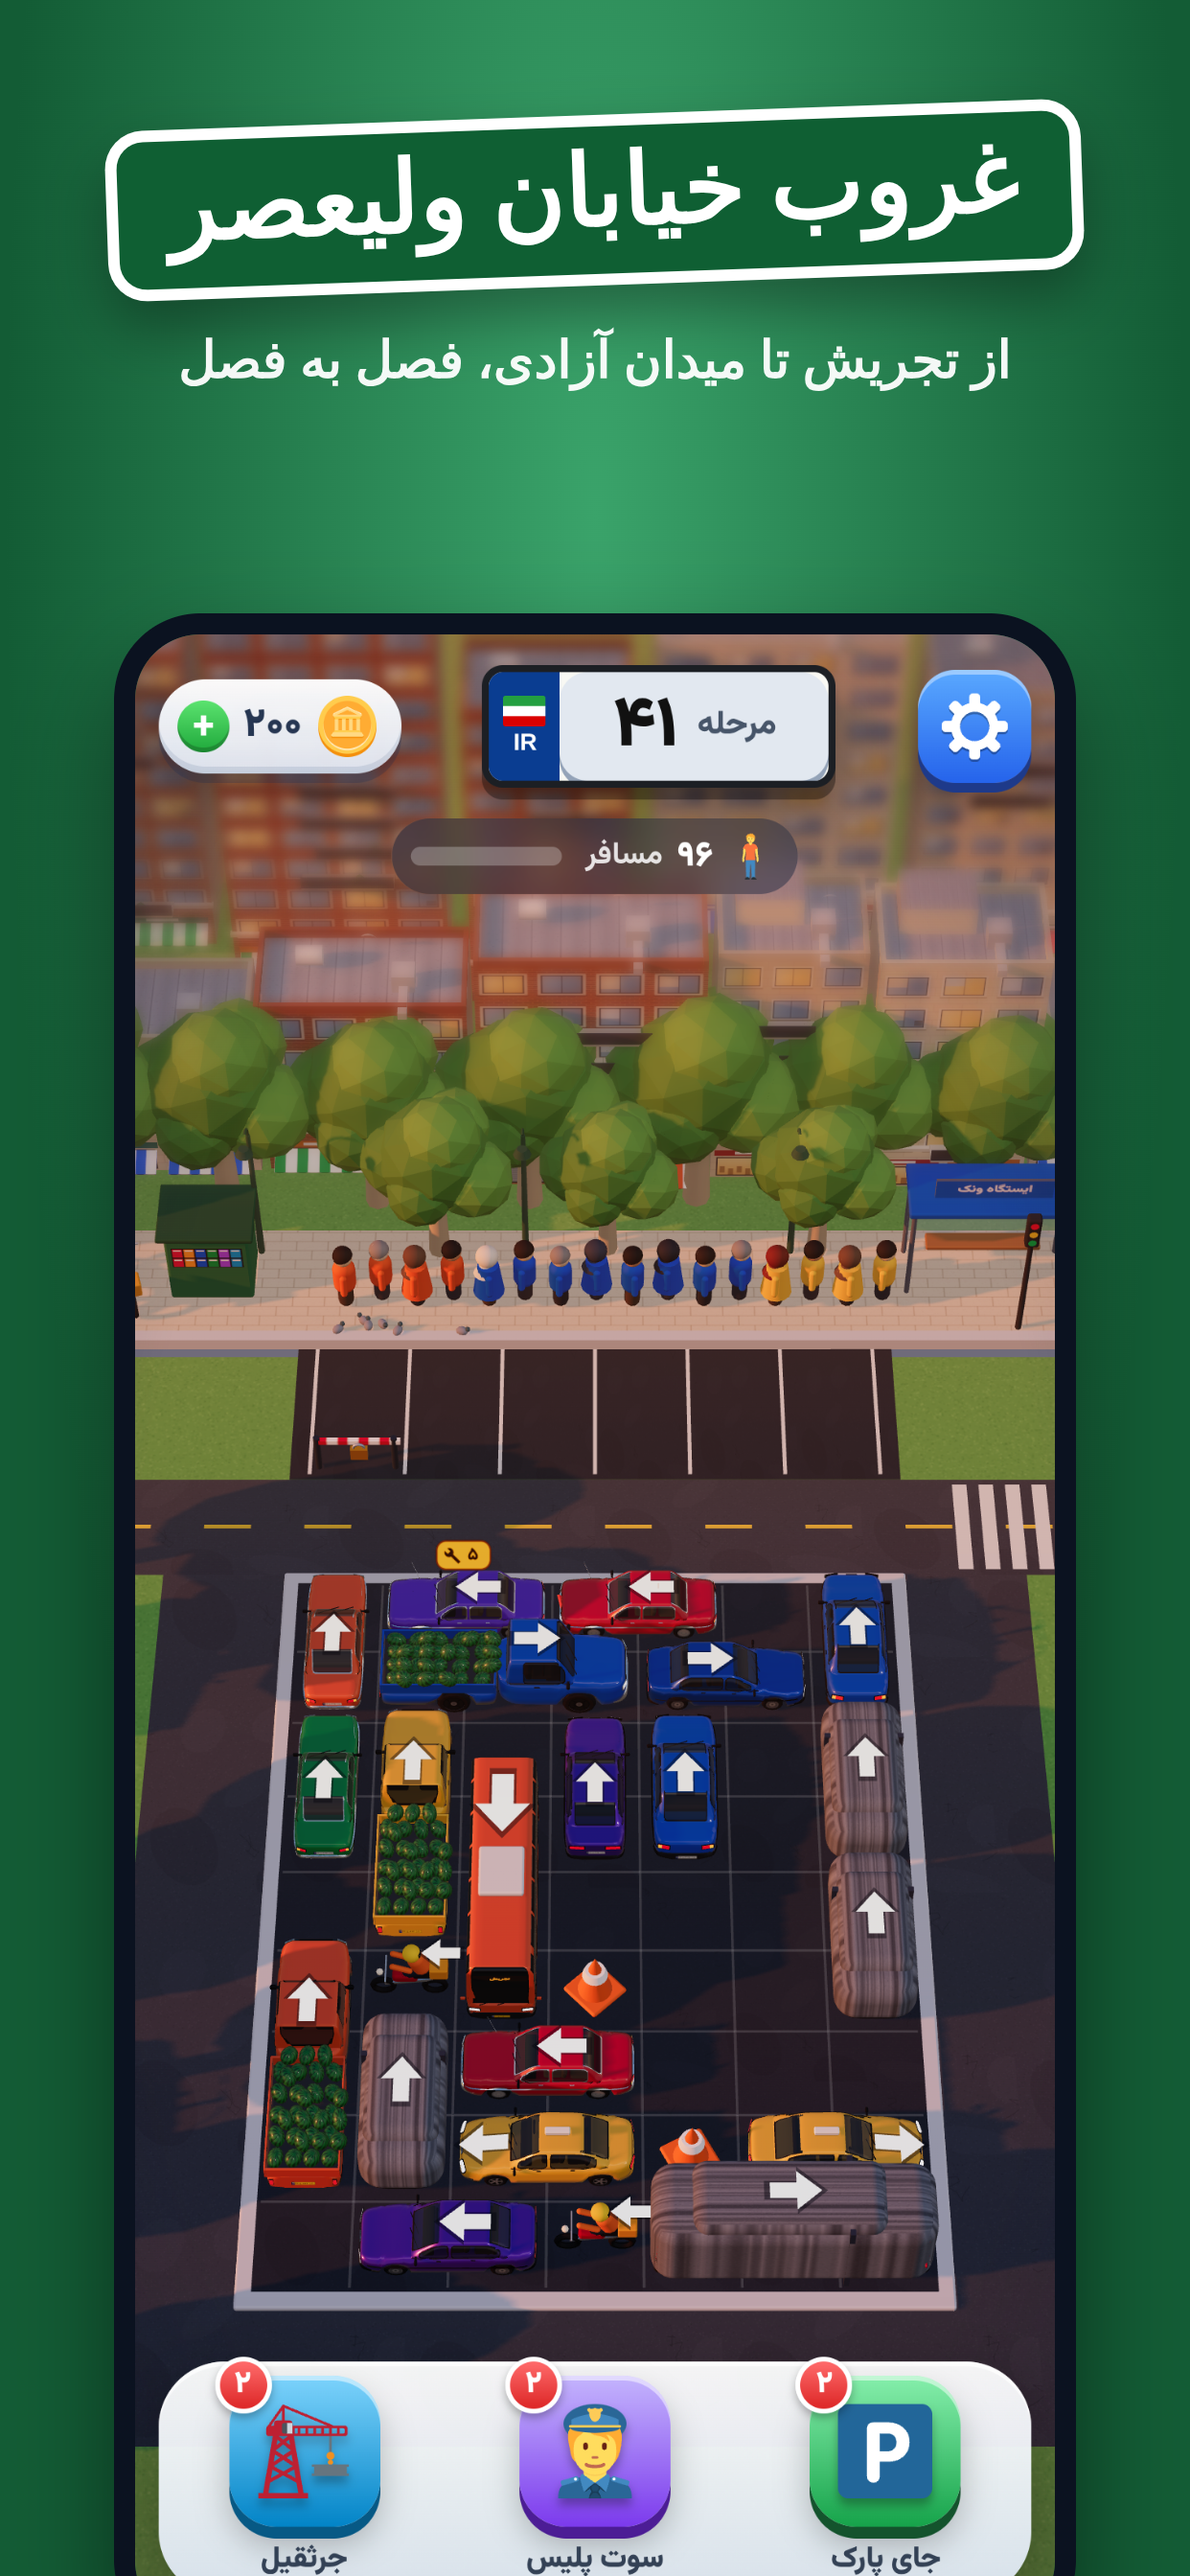
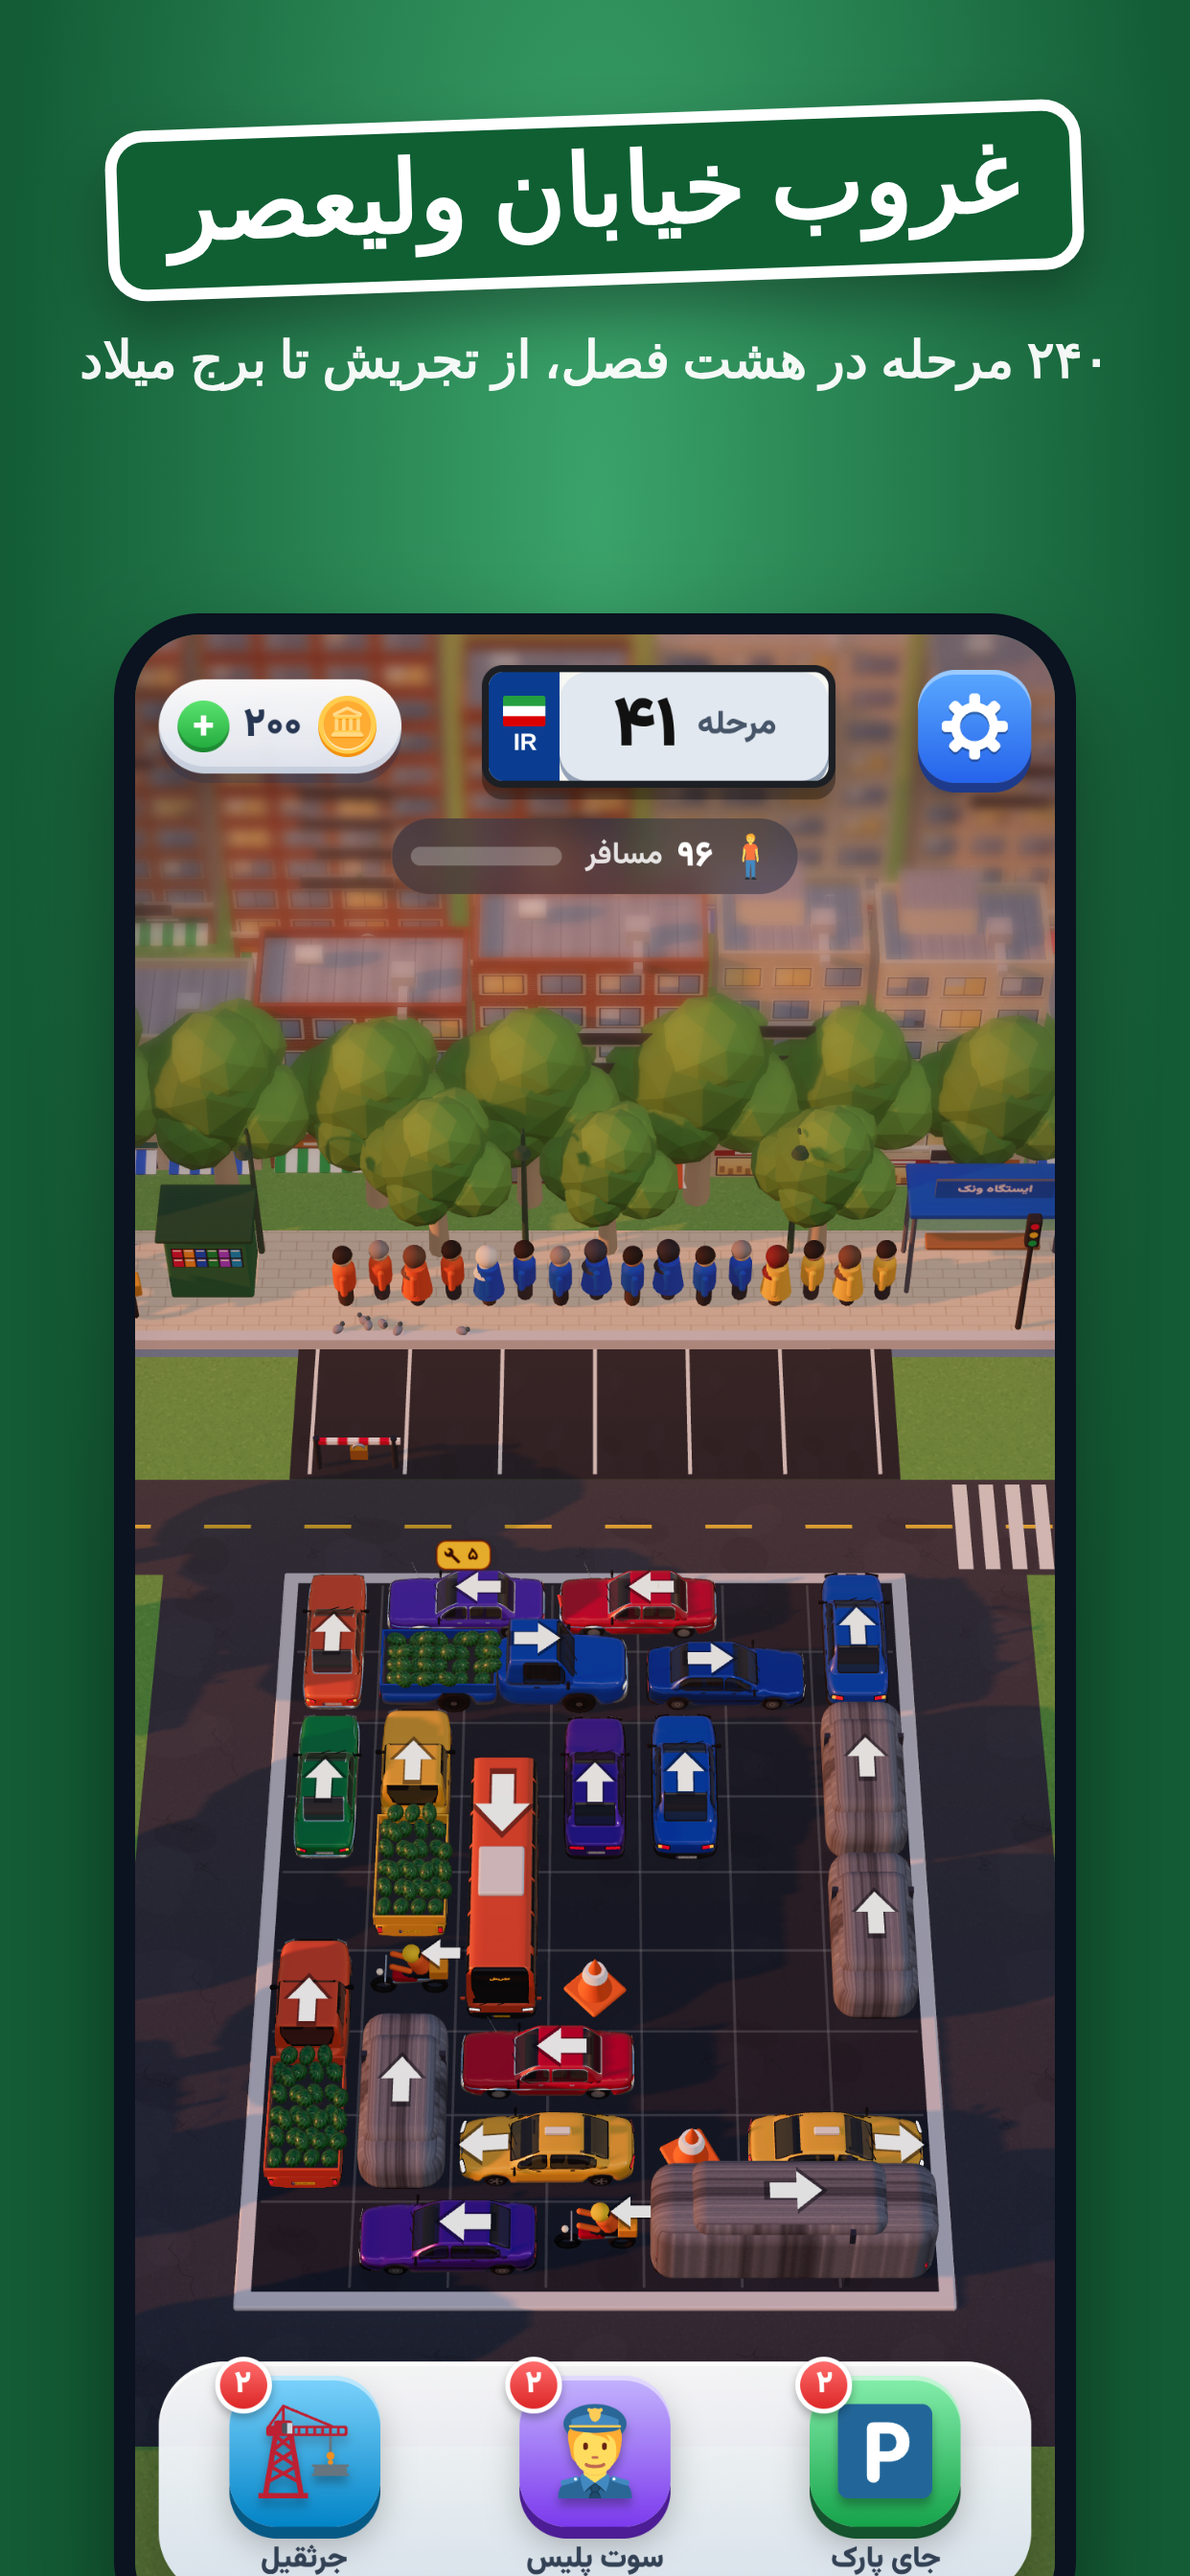
Rahbandoon: store screenshots and listing for Milad Tower, tunnels and the agency
Claude-Session: https://claude.ai/code/session_01NTuNGZiLkt8U3CCQBfLqTn

diff --git a/store/listing-fa.md b/store/listing-fa.md
@@ -48,7 +48,10 @@
 
 ## تازهها (نسخهی ۱.۰)
 - ۲۴۰ مرحله در هشت فصل
-- ماشین عروس، پلیس راهور، گاری میوه، طرح زوج و فرد و کلی مکانیک دیگه
+- ماشین عروس، حاجخانم با خرید، تونل نیایش، پلیس راهور، گاری میوه، طرح زوج و فرد و کلی مکانیک دیگه
+- آژانس آقاجون: با ستارههات آژانس و محله رو از نو بساز
+- کارت بلیت ماهانه روی خط یک مترو و قلک سفالی
+- رویداد شب یلدا با فال حافظ
 - افتخارات با مدال برنز، نقره و طلا
 - چالش روزانهی ساعت شلوغی
 - گاراژ ماشینهای کلاسیک
